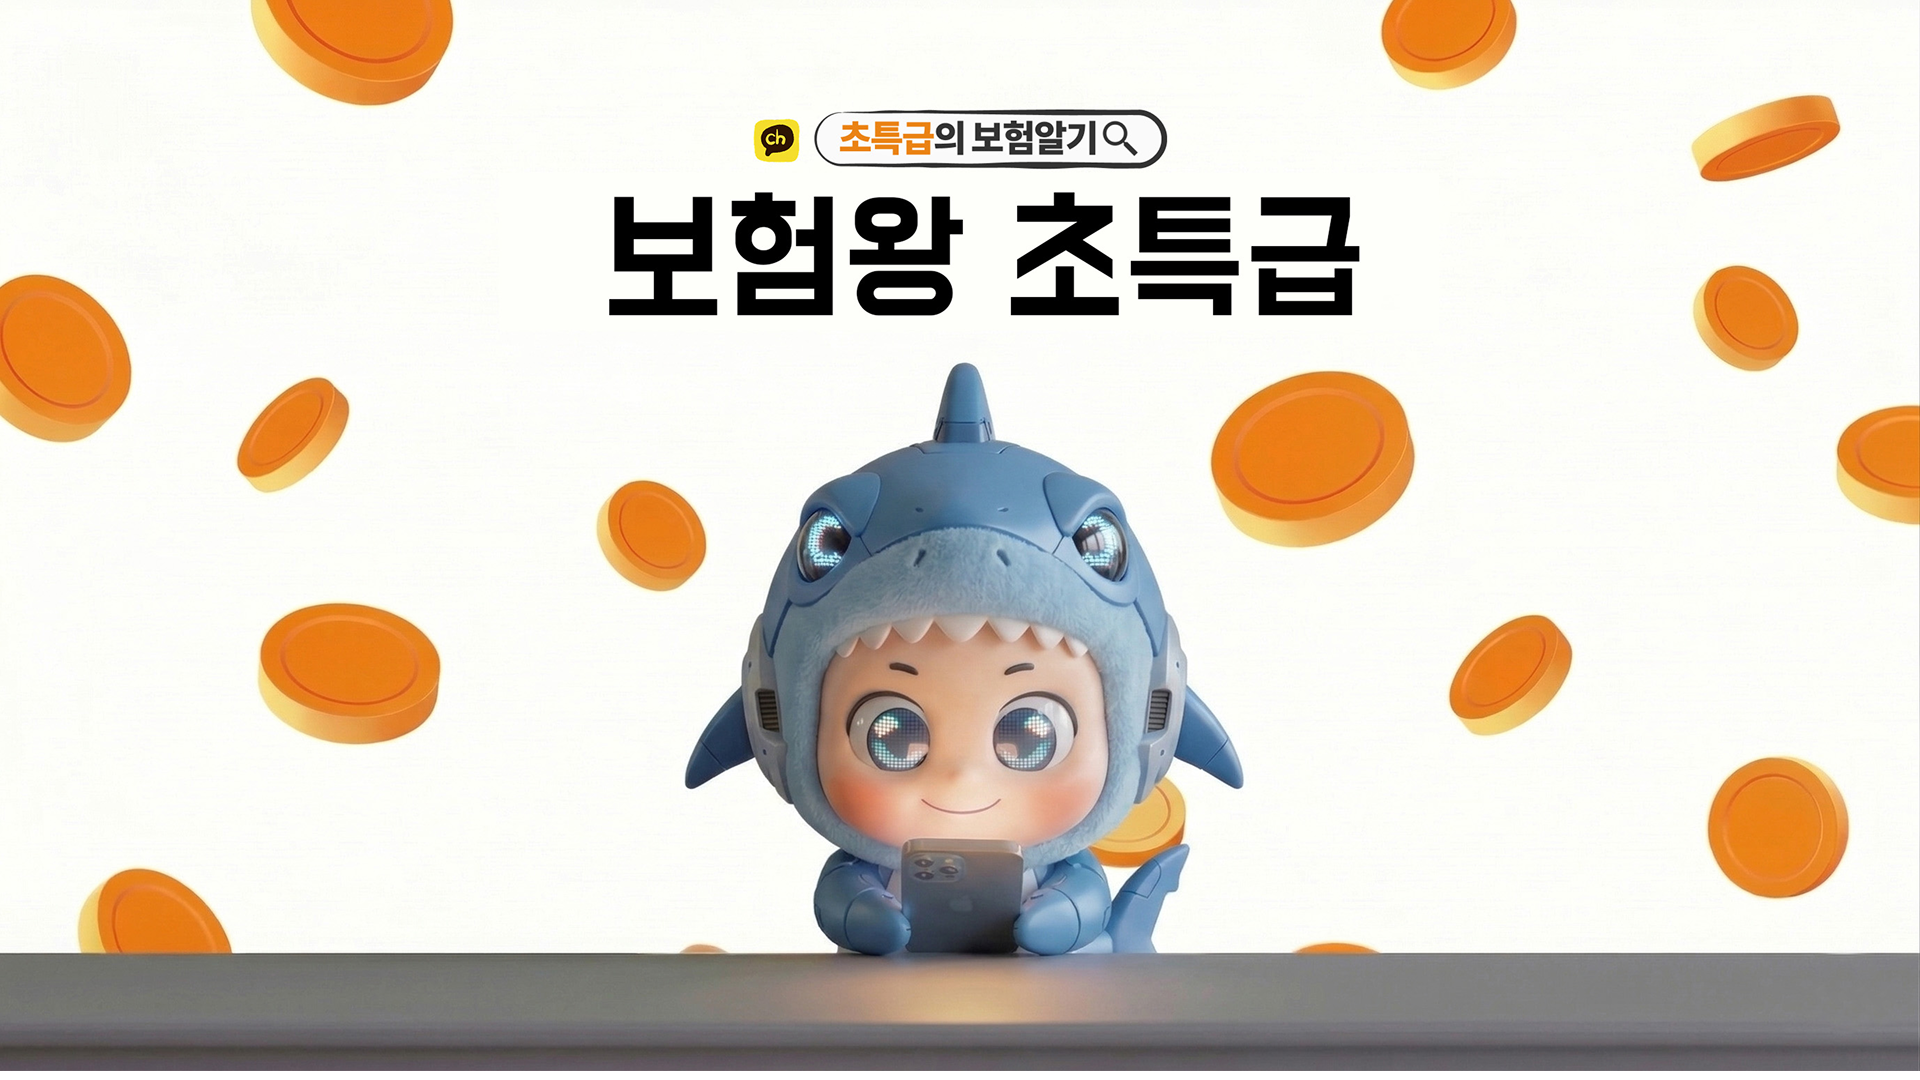
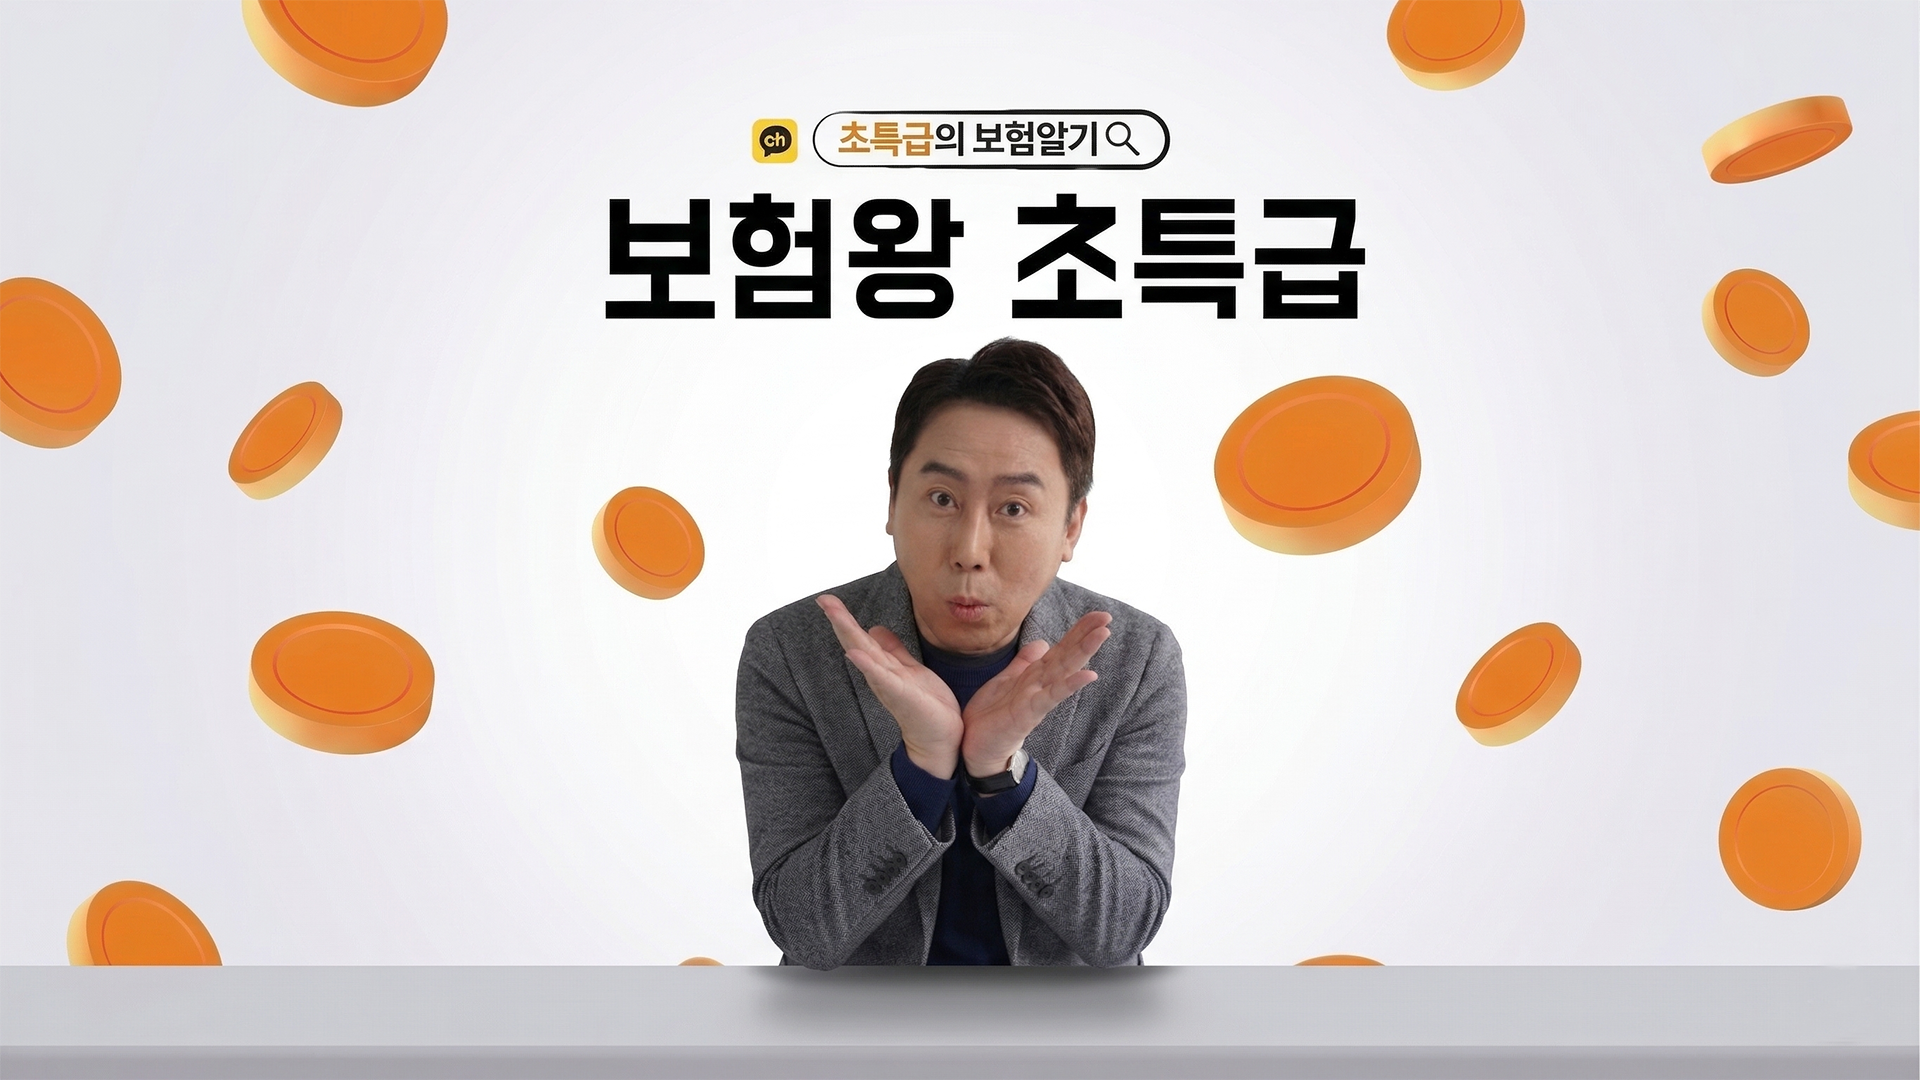
sect0 이미지 수정

diff --git a/index.html b/index.html
@@ -25,8 +25,8 @@
         </button>
     </div>
     <section class="sect sect0">
-        <img src="./img/test0.jpg" alt="0" class="pimg">
-        <img src="./img/m_test0.jpg" alt="m0" class="mimg">
+        <img src="./img/test0.png" alt="0" class="pimg">
+        <img src="./img/m_test0.png" alt="m0" class="mimg">
         <div class="inner"></div>
     </section>
     <section class="sect sect0_1">

diff --git a/main.css b/main.css
@@ -80,7 +80,7 @@
     padding: 64px 0px;
 }
 
-.sect0_1 {}
+
 
 .sect0_2 {
     padding: 32px 0px;
